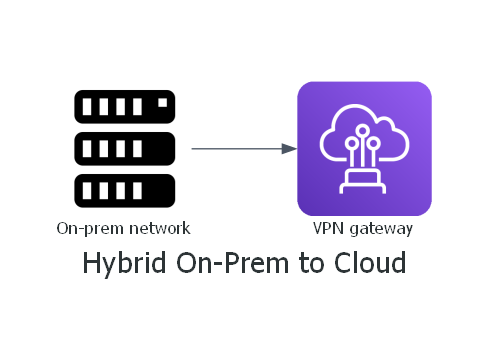
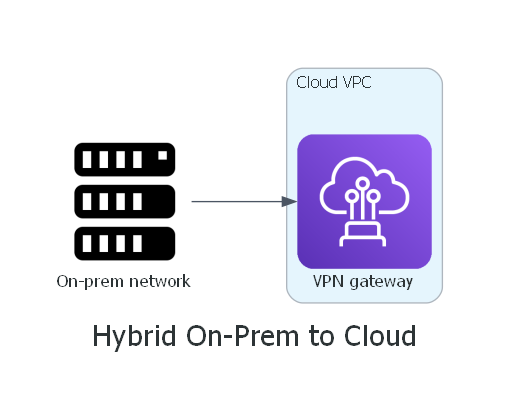
Close the fork gap: add 11 IR blocks, wire 4 template diagrams (38 blocks)
Added input-less blocks for cloudfront, glue_crawler, glue_job, sqs, sns,
backup_vault/plan/selection, waf, cloudwatch, datacenter. Fixed under-wired
diagrams (k8s, zero-trust, hybrid, immutable-blue-green) to satisfy required
inputs. ALL 24 templates now fork to the canvas + validate; IR syntax-checks.
Backend 100%.

Changed region(s): [[0.092, 0.1449, 0.8896, 0.8406]]

diff --git a/app/ir/blocks.py b/app/ir/blocks.py
@@ -441,6 +441,164 @@ def _ecs_service(node, refs, ctx):
     ]
 
 
+def _cloudfront(node, refs, ctx):
+    p = node["props"]
+    return {
+        "name": f"CloudFront distribution: {node['id']}",
+        "community.aws.cloudfront_distribution": {
+            "state": "present",
+            "comment": p.get("comment", node["id"]),
+            "default_root_object": p.get("index_document", "index.html"),
+            "origins": [{
+                "id": f"origin-{node['id']}",
+                "domain_name": p.get("origin_domain", "example-bucket.s3.amazonaws.com"),
+                "s3_origin_access_identity_enabled": True,
+            }],
+            "default_cache_behavior": {
+                "target_origin_id": f"origin-{node['id']}",
+                "viewer_protocol_policy": "redirect-to-https",
+            },
+            "enabled": True,
+        },
+    }
+
+
+def _glue_crawler(node, refs, ctx):
+    p = node["props"]
+    return {
+        "name": f"Glue crawler: {node['id']}",
+        "community.aws.glue_crawler": {
+            "name": p.get("name", node["id"]),
+            "database_name": p.get("database", "analytics_db"),
+            "role": p.get("role_arn", "arn:aws:iam::000000000000:role/GlueServiceRole"),
+            "targets": {"S3Targets": [{"Path": p.get("s3_path", "s3://my-bucket/")}]},
+            "state": "present",
+        },
+    }
+
+
+def _glue_job(node, refs, ctx):
+    p = node["props"]
+    return {
+        "name": f"Glue job: {node['id']}",
+        "community.aws.glue_job": {
+            "name": p.get("name", node["id"]),
+            "role": p.get("role_arn", "arn:aws:iam::000000000000:role/GlueServiceRole"),
+            "command": {"name": "glueetl", "script_location": p.get("script_location", "s3://my-bucket/etl.py")},
+            "state": "present",
+        },
+    }
+
+
+def _sqs(node, refs, ctx):
+    return {
+        "name": f"SQS queue: {node['id']}",
+        "community.aws.sqs_queue": {
+            "name": node["props"].get("name", node["id"]),
+            "region": ctx["region"],
+            "tags": TAGS,
+            "state": "present",
+        },
+    }
+
+
+def _sns(node, refs, ctx):
+    return {
+        "name": f"SNS topic: {node['id']}",
+        "community.aws.sns_topic": {
+            "name": node["props"].get("name", node["id"]),
+            "region": ctx["region"],
+            "state": "present",
+        },
+    }
+
+
+def _backup_vault(node, refs, ctx):
+    return {
+        "name": f"Backup vault: {node['id']}",
+        "amazon.aws.backup_vault": {
+            "backup_vault_name": node["props"].get("name", node["id"]),
+            "region": ctx["region"],
+            "tags": TAGS,
+            "state": "present",
+        },
+    }
+
+
+def _backup_plan(node, refs, ctx):
+    p = node["props"]
+    return {
+        "name": f"Backup plan: {node['id']}",
+        "amazon.aws.backup_plan": {
+            "backup_plan_name": p.get("name", node["id"]),
+            "region": ctx["region"],
+            "rules": [{
+                "rule_name": "daily",
+                "target_backup_vault_name": p.get("vault", "Default"),
+                "schedule_expression": p.get("schedule", "cron(0 5 * * ? *)"),
+                "lifecycle": {"delete_after_days": p.get("retention_days", 35)},
+            }],
+            "state": "present",
+        },
+    }
+
+
+def _backup_selection(node, refs, ctx):
+    p = node["props"]
+    return {
+        "name": f"Backup selection: {node['id']}",
+        "amazon.aws.backup_selection": {
+            "selection_name": p.get("name", node["id"]),
+            "backup_plan_id": p.get("plan_id", "PLAN_ID"),
+            "iam_role_arn": p.get("role_arn", "arn:aws:iam::000000000000:role/BackupServiceRole"),
+            "list_of_tags": [{"condition_type": "STRINGEQUALS", "condition_key": "Backup", "condition_value": "true"}],
+            "region": ctx["region"],
+            "state": "present",
+        },
+    }
+
+
+def _waf(node, refs, ctx):
+    return {
+        "name": f"WAF web ACL: {node['id']}",
+        "community.aws.wafv2_web_acl": {
+            "name": node["props"].get("name", node["id"]),
+            "scope": "REGIONAL",
+            "region": ctx["region"],
+            "default_action": "allow",
+            "rules": [],
+            "visibility_config": {
+                "sampled_requests_enabled": True,
+                "cloudwatch_metrics_enabled": True,
+                "metric_name": node["id"],
+            },
+            "state": "present",
+        },
+    }
+
+
+def _cloudwatch(node, refs, ctx):
+    return {
+        "name": f"CloudWatch log group: {node['id']}",
+        "amazon.aws.cloudwatchlogs_log_group": {
+            "log_group_name": node["props"].get("log_group_name", "/" + node["id"]),
+            "region": ctx["region"],
+            "retention": node["props"].get("retention_days", 90),
+            "state": "present",
+        },
+    }
+
+
+def _datacenter(node, refs, ctx):
+    # An on-prem network is managed outside this playbook — render an annotation.
+    return {
+        "name": f"On-prem network: {node['id']}",
+        "ansible.builtin.debug": {
+            "msg": node["props"].get("note", f"On-prem network '{node['id']}' is managed outside this playbook"),
+        },
+    }
+
+
 BLOCKS: dict[str, dict] = {
     "vpc": {
         "inputs": {},
@@ -693,5 +851,96 @@ BLOCKS: dict[str, dict] = {
         },
         "output": "service.serviceName",
         "render": _ecs_service,
+    },
+    "cloudfront": {
+        "inputs": {},
+        "props": {
+            "origin_domain": {"type": "string", "guidance": "Origin domain, e.g. mybucket.s3.amazonaws.com."},
+            "index_document": {"type": "string", "default": "index.html"},
+            "comment": {"type": "string"},
+        },
+        "output": "domain_name",
+        "render": _cloudfront,
+    },
+    "glue_crawler": {
+        "inputs": {},
+        "props": {
+            "name": {"type": "string"},
+            "database": {"type": "string", "default": "analytics_db"},
+            "role_arn": {"type": "string", "guidance": "Glue service role ARN."},
+            "s3_path": {"type": "string", "guidance": "S3 path to crawl, e.g. s3://bucket/."},
+        },
+        "output": "name",
+        "render": _glue_crawler,
+    },
+    "glue_job": {
+        "inputs": {},
+        "props": {
+            "name": {"type": "string"},
+            "role_arn": {"type": "string", "guidance": "Glue service role ARN."},
+            "script_location": {"type": "string", "guidance": "S3 path to the ETL script."},
+        },
+        "output": "name",
+        "render": _glue_job,
+    },
+    "sqs": {
+        "inputs": {},
+        "props": {"name": {"type": "string", "guidance": "Queue name."}},
+        "output": "queue_url",
+        "render": _sqs,
+    },
+    "sns": {
+        "inputs": {},
+        "props": {"name": {"type": "string", "guidance": "Topic name."}},
+        "output": "sns_arn",
+        "render": _sns,
+    },
+    "backup_vault": {
+        "inputs": {},
+        "props": {"name": {"type": "string", "guidance": "Vault name."}},
+        "output": "vault.backup_vault_arn",
+        "render": _backup_vault,
+    },
+    "backup_plan": {
+        "inputs": {},
+        "props": {
+            "name": {"type": "string"},
+            "vault": {"type": "string", "guidance": "Target vault name."},
+            "schedule": {"type": "string", "default": "cron(0 5 * * ? *)"},
+            "retention_days": {"type": "number", "default": 35},
+        },
+        "output": "backup_plan_id",
+        "render": _backup_plan,
+    },
+    "backup_selection": {
+        "inputs": {},
+        "props": {
+            "name": {"type": "string"},
+            "plan_id": {"type": "string", "guidance": "Backup plan id."},
+            "role_arn": {"type": "string", "guidance": "AWS Backup service role ARN."},
+        },
+        "output": "selection.selection_id",
+        "render": _backup_selection,
+    },
+    "waf": {
+        "inputs": {},
+        "props": {"name": {"type": "string", "guidance": "Web ACL name."}},
+        "output": "web_acl.id",
+        "render": _waf,
+    },
+    "cloudwatch": {
+        "inputs": {},
+        "props": {
+            "log_group_name": {"type": "string", "guidance": "Log group, e.g. /app/audit."},
+            "retention_days": {"type": "number", "default": 90},
+        },
+        "output": "log_group_name",
+        "render": _cloudwatch,
+    },
+    "datacenter": {
+        "inputs": {},
+        "props": {"note": {"type": "string", "guidance": "On-prem network managed outside this playbook."}},
+        "output": "msg",
+        "render": _datacenter,
     },
 }

diff --git a/tests/test_ir_compiler.py b/tests/test_ir_compiler.py
@@ -116,6 +116,17 @@ ALL_BLOCKS_IR = {
         {"id": "ep", "type": "vpc_endpoint", "props": {}, "inputs": {"vpc": "vpc"}},
         {"id": "ecs", "type": "ecs_cluster", "props": {}},
         {"id": "svc", "type": "ecs_service", "props": {}, "inputs": {"cluster": "ecs", "subnets": ["pub"]}},
+        {"id": "cf", "type": "cloudfront", "props": {}},
+        {"id": "gc", "type": "glue_crawler", "props": {}},
+        {"id": "gj", "type": "glue_job", "props": {}},
+        {"id": "q", "type": "sqs", "props": {}},
+        {"id": "t", "type": "sns", "props": {}},
+        {"id": "bv", "type": "backup_vault", "props": {}},
+        {"id": "bp", "type": "backup_plan", "props": {}},
+        {"id": "bs", "type": "backup_selection", "props": {}},
+        {"id": "waf", "type": "waf", "props": {}},
+        {"id": "cw", "type": "cloudwatch", "props": {}},
+        {"id": "dc", "type": "datacenter", "props": {}},
     ],
 }
 
@@ -128,5 +139,8 @@ def test_all_blocks_compile_to_valid_yaml():
     for marker in ("Internet gateway", "NAT gateway", "Route table", "S3 bucket", "S3 website", "Target group",
                    "Launch template", "Lambda function", "DynamoDB table", "KMS key", "IAM role",
                    "EKS cluster", "EKS node group", "Transit gateway", "VPN gateway", "CloudTrail",
-                   "API gateway", "EventBridge rule", "VPC endpoint", "ECS cluster", "ECS service"):
+                   "API gateway", "EventBridge rule", "VPC endpoint", "ECS cluster", "ECS service",
+                   "CloudFront distribution", "Glue crawler", "Glue job", "SQS queue", "SNS topic",
+                   "Backup vault", "Backup plan", "Backup selection", "WAF web ACL", "CloudWatch log group",
+                   "On-prem network"):
         assert marker in site

diff --git a/scripts/check_design.py b/scripts/check_design.py
@@ -38,6 +38,17 @@ IR = {
         {"id": "ep1", "type": "vpc_endpoint", "props": {}, "inputs": {"vpc": "vpc1"}},
         {"id": "ecs1", "type": "ecs_cluster", "props": {}},
         {"id": "svc1", "type": "ecs_service", "props": {}, "inputs": {"cluster": "ecs1", "subnets": ["pub1", "pub2"]}},
+        {"id": "cf1", "type": "cloudfront", "props": {}},
+        {"id": "gc1", "type": "glue_crawler", "props": {}},
+        {"id": "gj1", "type": "glue_job", "props": {}},
+        {"id": "q1", "type": "sqs", "props": {}},
+        {"id": "t1", "type": "sns", "props": {}},
+        {"id": "bv1", "type": "backup_vault", "props": {}},
+        {"id": "bp1", "type": "backup_plan", "props": {}},
+        {"id": "bs1", "type": "backup_selection", "props": {}},
+        {"id": "waf1", "type": "waf", "props": {}},
+        {"id": "cw1", "type": "cloudwatch", "props": {}},
+        {"id": "dc1", "type": "datacenter", "props": {}},
     ],
 }
 

diff --git a/scripts/export_icons.py b/scripts/export_icons.py
@@ -46,6 +46,17 @@ ICON_MAP: dict[str, tuple[str, str]] = {
     "vpc_endpoint": ("diagrams.aws.network", "Endpoint"),
     "ecs_cluster": ("diagrams.aws.compute", "ECS"),
     "ecs_service": ("diagrams.aws.compute", "ECS"),
+    "cloudfront": ("diagrams.aws.network", "CloudFront"),
+    "glue_crawler": ("diagrams.aws.analytics", "GlueCrawlers"),
+    "glue_job": ("diagrams.aws.analytics", "Glue"),
+    "sqs": ("diagrams.aws.integration", "SimpleQueueServiceSqs"),
+    "sns": ("diagrams.aws.integration", "SimpleNotificationServiceSns"),
+    "backup_vault": ("diagrams.aws.storage", "Backup"),
+    "backup_plan": ("diagrams.aws.storage", "Backup"),
+    "backup_selection": ("diagrams.aws.storage", "Backup"),
+    "waf": ("diagrams.aws.security", "WAF"),
+    "cloudwatch": ("diagrams.aws.management", "Cloudwatch"),
+    "datacenter": ("diagrams.onprem.compute", "Server"),
 }
 
 
